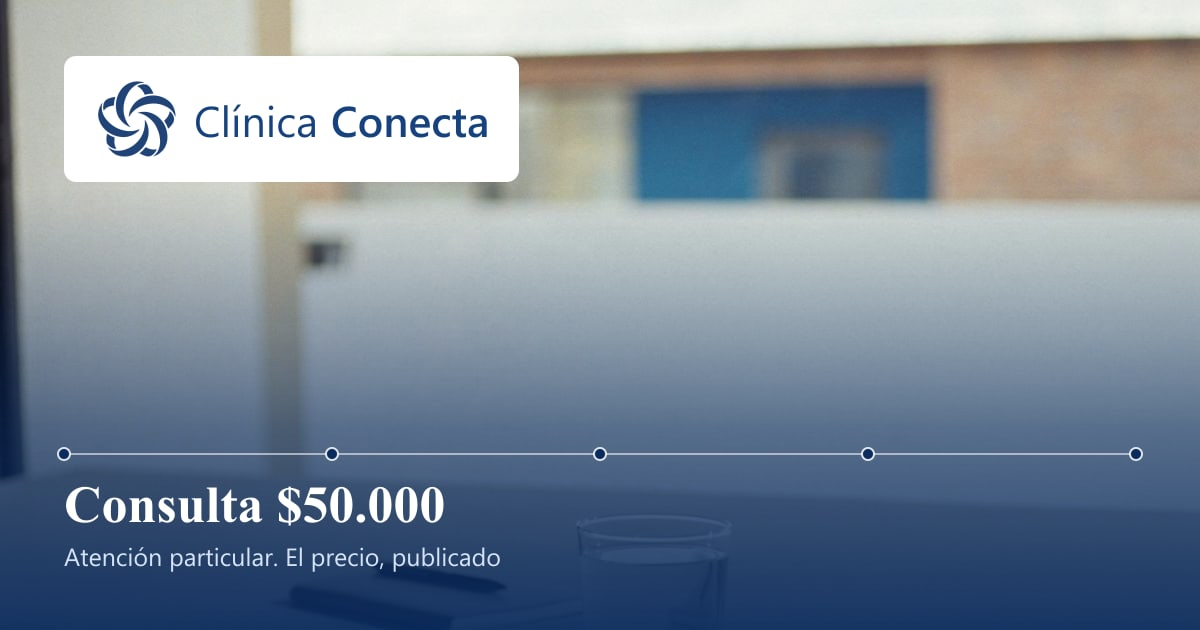
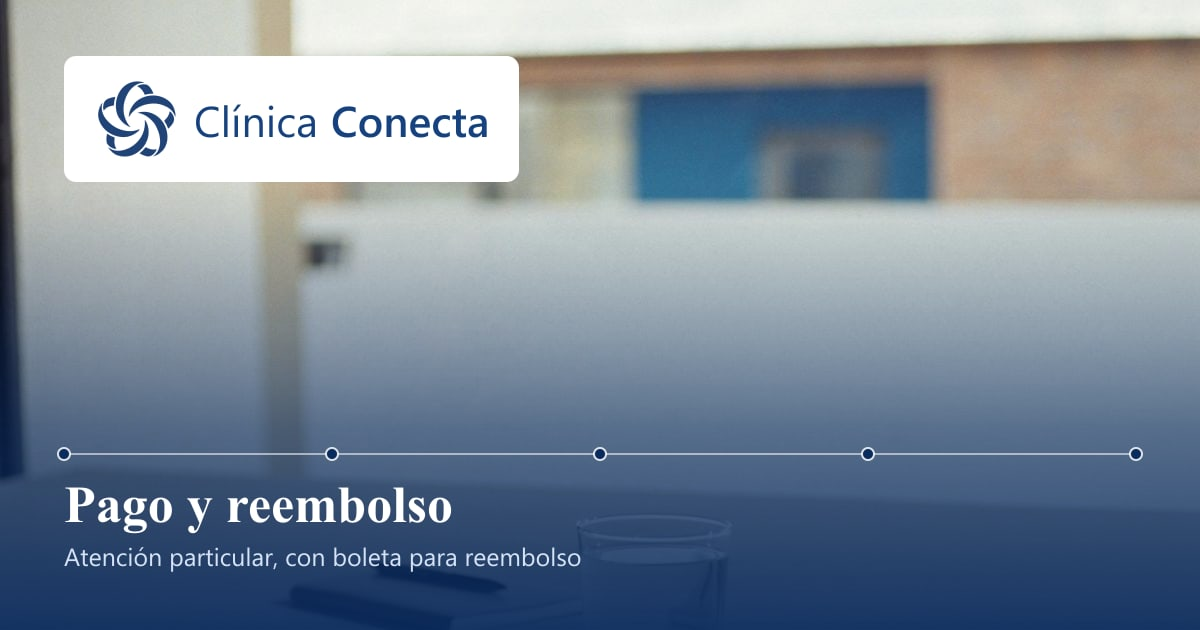
El sitio deja de publicar el precio: se ve al agendar en TotalMed
El valor depende de la prestación, así que un monto único en la web
quedaba mal. Se quita de portada, telemedicina, agendar, pie, menú
móvil, buscador, FAQ y tarjetas para compartir. /precios/ pasa a ser
"Pago y reembolso" (misma URL) y el campo de precio sale del CMS.

Changed region(s): [[0.0308, 0.754, 0.4008, 0.8444], [0.2158, 0.8746, 0.4933, 0.9048]]

diff --git a/keystatic.config.ts b/keystatic.config.ts
@@ -45,9 +45,9 @@ export default config({
        src/pages/index.astro y sólo se podía cambiar tocando código.
 
        Los textos aceptan MARCADORES entre llaves, que se rellenan solos con los
-       datos reales al publicar: {precio}, {notaPrecio}, {comuna}, {ciudad},
-       {referencia}, {preguntas}, {sabado}, {nombre}, {razonSocial}. Así, si el
-       precio cambia en "Datos de la clínica", la portada no queda mintiendo.
+       datos reales al publicar: {notaPrecio}, {comuna}, {ciudad},
+       {referencia}, {preguntas}, {sabado}, {nombre}, {razonSocial}. Así, si la
+       nota de previsión cambia en "Datos de la clínica", la portada no queda mintiendo.
        Un marcador mal escrito no se imprime en crudo: desaparece. */
     portada: singleton({
       label: 'Portada del sitio',
@@ -74,7 +74,7 @@ export default config({
               options: [
                 { label: 'Agendar hora', value: 'agendar' },
                 { label: 'Telemedicina', value: 'telemedicina' },
-                { label: 'Precios', value: 'precios' },
+                { label: 'Pago y reembolso', value: 'precios' },
                 { label: 'Preguntas frecuentes', value: 'preguntas' },
                 { label: 'Qué llevar a la consulta', value: 'que-llevar' },
                 { label: 'Contacto', value: 'contacto' },
@@ -121,7 +121,7 @@ export default config({
               options: [
                 { label: 'Agendar hora', value: 'agendar' },
                 { label: 'Telemedicina', value: 'telemedicina' },
-                { label: 'Precios', value: 'precios' },
+                { label: 'Pago y reembolso', value: 'precios' },
                 { label: 'Preguntas frecuentes', value: 'preguntas' },
                 { label: 'Qué llevar a la consulta', value: 'que-llevar' },
                 { label: 'Contacto', value: 'contacto' },
@@ -222,7 +222,6 @@ export default config({
           description:
             'Con código de país, por ejemplo 56912345678. Mientras esté vacío, los botones de WhatsApp NO aparecen en el sitio. Nunca ponemos un número de ejemplo.',
         }),
-        precioConsulta: fields.number({ label: 'Valor de la consulta (pesos, sin puntos)' }),
         precioNota: fields.text({ label: 'Nota sobre previsión', multiline: true }),
         compromisos: fields.array(fields.text({ label: 'Compromiso' }), {
           label: 'Compromisos con el paciente',

diff --git a/src/content.config.ts b/src/content.config.ts
@@ -278,7 +278,6 @@ const settings = defineCollection({
     telefono: pendiente(),
     whatsapp: pendiente(),
     redes: z.array(z.object({ red: z.string(), url: z.string().url() })).default([]),
-    precioConsulta: z.number(),
     precioNota: z.string(),
     avisoUrgencias: z.object({
       titulo: z.string(),
@@ -322,7 +321,7 @@ const settings = defineCollection({
    de la consulta, la comuna, cuántas preguntas hay publicadas. Si se copiaran
    como texto fijo al CMS, cambiar el precio en "Datos de la clínica" dejaría
    la portada mintiendo —que es exactamente el problema que el pie de sitio ya
-   tuvo—. Por eso el texto admite marcadores entre llaves, {precio} o {comuna},
+   tuvo—. Por eso el texto admite marcadores entre llaves, {notaPrecio} o {comuna},
    que se reemplazan al renderizar con el dato real. La lista completa y su
    expansión están en src/lib/portada.ts. */
 const homepage = defineCollection({

diff --git a/src/lib/whatsapp.ts b/src/lib/whatsapp.ts
@@ -25,7 +25,7 @@ const MENSAJES: Record<OrigenWhatsApp, string> = {
   telemedicina:
     'Hola, vengo de la web de Clínica Conecta - telemedicina, necesito más información.',
   precios:
-    'Hola, vengo de la web de Clínica Conecta y quiero consultar por el valor de la consulta.',
+    'Hola, vengo de la web de Clínica Conecta y tengo una duda sobre el pago y el reembolso.',
   contacto: 'Hola, vengo de la web de Clínica Conecta y necesito coordinar una hora.',
   agendar: 'Hola, vengo de la web de Clínica Conecta y necesito ayuda para agendar mi hora.',
   preguntas:

diff --git a/src/lib/portada.ts b/src/lib/portada.ts
@@ -1,5 +1,5 @@
 import { getEntry } from 'astro:content';
-import { ajustes, pais, precioCLP } from './contenido';
+import { ajustes, pais } from './contenido';
 import { RUTAS } from './rutas';
 
 /* Portada editable.
@@ -80,7 +80,6 @@ export async function marcadores(totalPreguntas: number): Promise<Marcadores> {
   const sabado = cl.horarios.find((h) => h.dia === 'Sábado');
 
   return {
-    precio: precioCLP(a.precioConsulta),
     notaPrecio: a.precioNota,
     nombre: a.nombre,
     razonSocial: a.razonSocial,

diff --git a/src/lib/contenido.ts b/src/lib/contenido.ts
@@ -120,11 +120,6 @@ export async function legalPorSlug(slug: string) {
   return (await getCollection('legal')).find((l) => l.data.slug === slug);
 }
 
-/** Formato de precio chileno, sin decimales. */
-export function precioCLP(valor: number): string {
-  return '$' + valor.toLocaleString('es-CL');
-}
-
 /** "Martes 15:00–19:00" a partir del registro del país. */
 export function horarioLegible(h: { dia: string; desde: string; hasta: string }): string {
   return `${h.dia} ${h.desde}–${h.hasta}`;

diff --git a/docs/manual-carlos.md b/docs/manual-carlos.md
@@ -59,16 +59,15 @@ desde **Contenido → Portada del sitio**. Ahí está:
 
 ### Los textos entre llaves no son un error
 
-Va a ver cosas como `Consulta particular {precio}, precio conocido antes de
-atenderte`. Eso de `{precio}` es un hueco que el sitio rellena solo con el
-valor real al publicar. Sirve para que, cuando usted cambie el precio en *Datos
-de la clínica*, la portada no se quede anunciando el anterior.
+Va a ver cosas como `Atención presencial en {comuna} y por telemedicina`. Eso de
+`{comuna}` es un hueco que el sitio rellena solo con el dato real al publicar.
+Sirve para que, cuando usted cambie un dato en *Datos de la clínica*, la
+portada no se quede anunciando el anterior.
 
 Los huecos que puede usar:
 
 | Escriba | Sale publicado |
 |---|---|
-| `{precio}` | el valor de la consulta, con formato: $50.000 |
 | `{notaPrecio}` | la nota sobre previsión |
 | `{comuna}` | Ñuñoa |
 | `{ciudad}` | Santiago |
@@ -129,15 +128,14 @@ excepción, claro.
 
 ---
 
-## 5. Cambiar el precio de la consulta
+## 5. Los precios
 
-1. **Configuración → Datos de la clínica**
-2. Busque *Valor de la consulta*
-3. Escriba el número **sin puntos ni signo peso**: `55000`, no `$55.000`
-4. Guarde
+Desde noviembre de 2026 el sitio no publica precios: el valor depende de la
+prestación y el paciente lo ve en TotalMed al elegir su hora. Los valores se
+cambian allá, no en este panel.
 
-El precio se actualiza solo en las cinco páginas donde aparece. No hay que
-buscarlo uno por uno.
+Lo que sí se edita acá es la *Nota sobre previsión* (**Configuración → Datos de
+la clínica**), que aparece en la página *Pago y reembolso* y en la portada.
 
 ---
 
